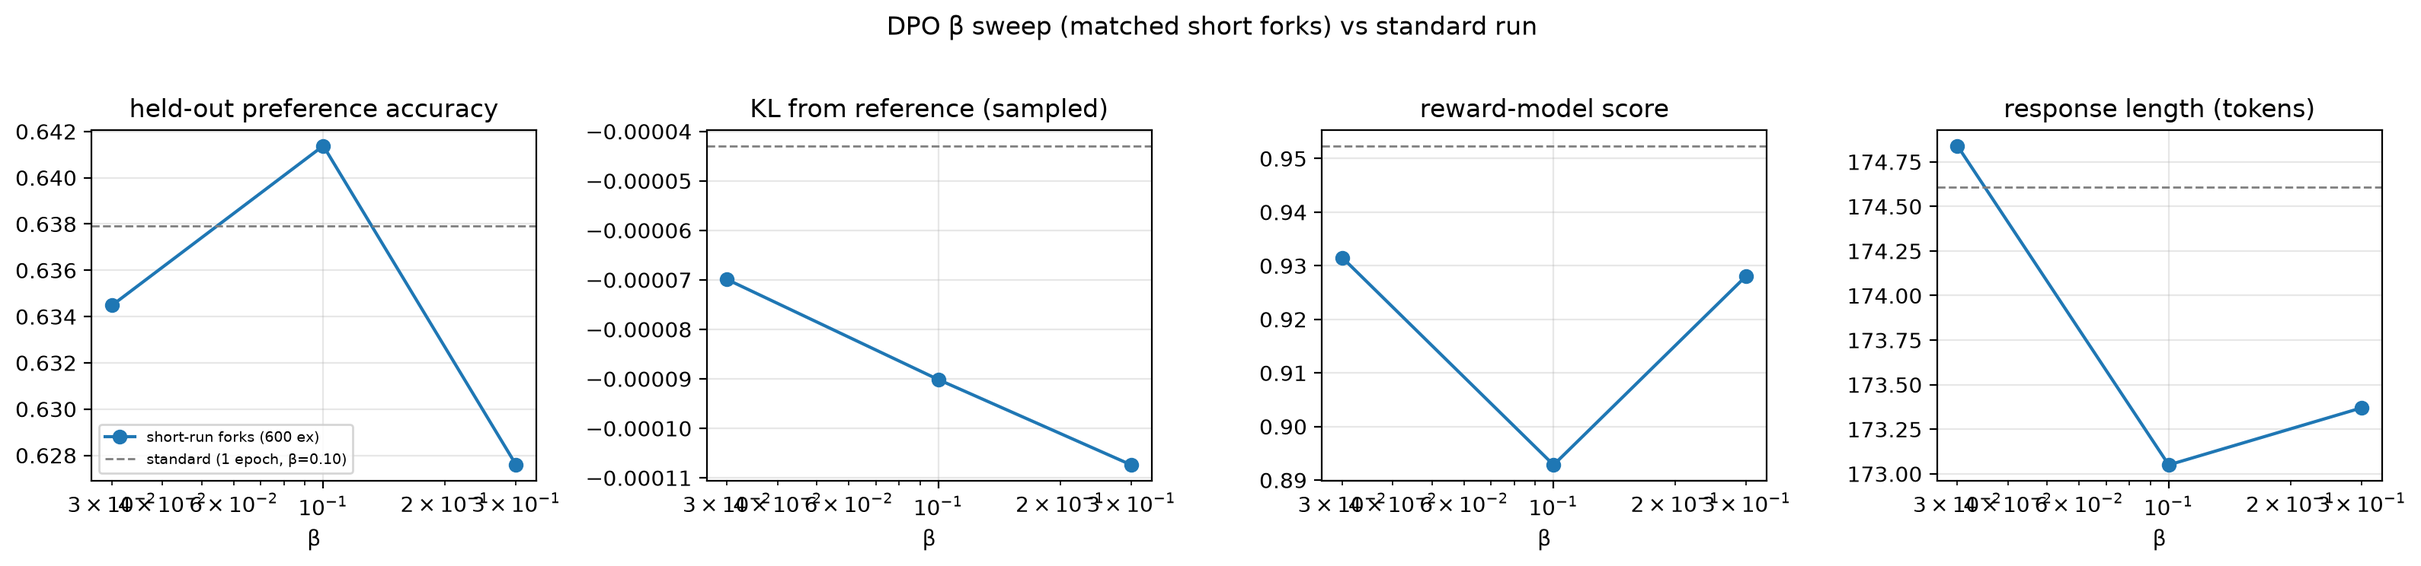
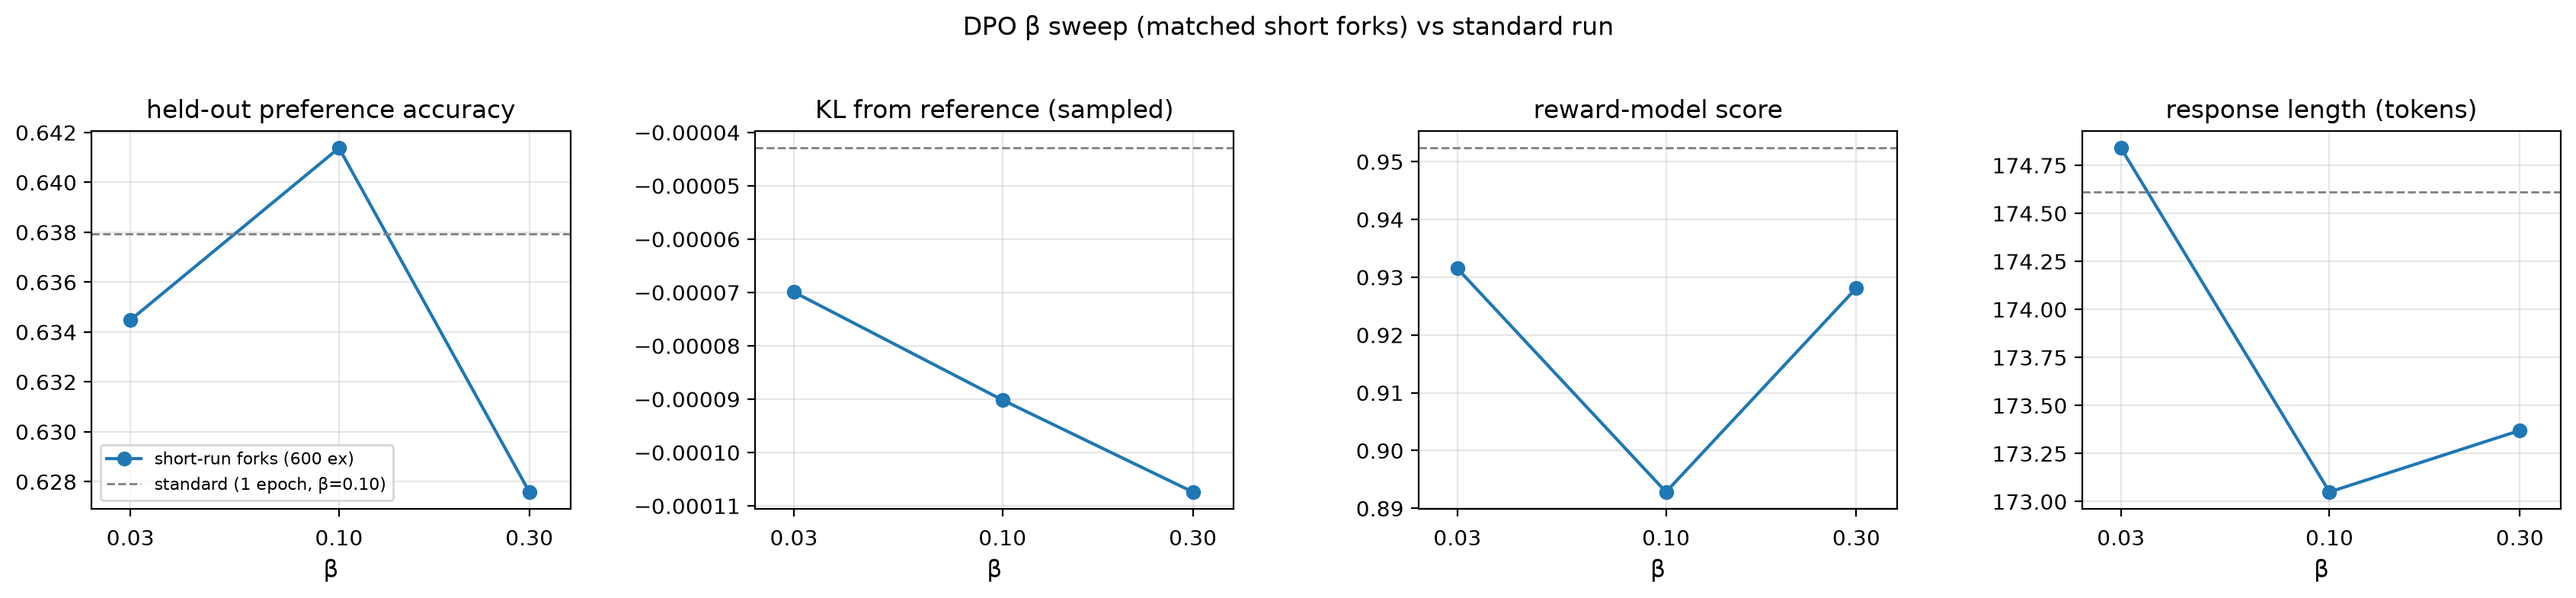
Task-1 beta_sweep figure: explicit spaced beta ticks (fix overlapping x-axis labels)

diff --git a/analysis/task1_plots.py b/analysis/task1_plots.py
@@ -166,7 +166,7 @@ def fig_beta_sweep(conditions, outbase, beta_map=None):
         return False
 
     std = condition_row("standard", conditions["standard"]) if "standard" in conditions else None
-    fig, axes = plt.subplots(1, 4, figsize=(16, 3.6))
+    fig, axes = plt.subplots(1, 4, figsize=(17, 3.8))
     panels = [
         ("held-out preference accuracy", accs, std["pref_acc"] if std else None),
         ("KL from reference (sampled)", kls, std["kl"] if std else None),
@@ -174,16 +174,22 @@ def fig_beta_sweep(conditions, outbase, beta_map=None):
         ("response length (tokens)", lens, std["len_mean"] if std else None),
     ]
     for ax, (title, ys, ref) in zip(axes, panels):
+        ax.set_xscale("log")
         ax.plot(betas, ys, "o-", label="short-run forks (600 ex)")
         if ref is not None:
             ax.axhline(ref, color="gray", ls="--", lw=1, label="standard (1 epoch, β=0.10)")
-        ax.set_xscale("log")
-        ax.set_xlabel("β")
         ax.set_title(title)
         ax.grid(alpha=0.3)
-    axes[0].legend(fontsize=7)
+        # explicit, well-spaced beta ticks: only the three tested values, no minor-label clutter
+        ax.set_xlim(0.024, 0.38)
+        ax.set_xticks(betas)
+        ax.set_xticklabels([f"{b:.2f}" for b in betas], fontsize=10)
+        ax.minorticks_off()
+        ax.tick_params(axis="x", pad=6)
+        ax.set_xlabel("β", fontsize=11)
+    axes[0].legend(fontsize=8)
     fig.suptitle("DPO β sweep (matched short forks) vs standard run", y=1.02)
-    fig.tight_layout()
+    fig.tight_layout(w_pad=3.0)
     fig.savefig(outbase.with_suffix(".png"), dpi=200, bbox_inches="tight")
     fig.savefig(outbase.with_suffix(".pdf"), bbox_inches="tight")
     plt.close(fig)

diff --git a/results/task1_dpo/summary_tables.md b/results/task1_dpo/summary_tables.md
@@ -34,3 +34,5 @@
 | beta_0p3 | 0.30 | 600 | 38 | 0.673 | 0.625 | 528.9 |
 | length_balanced | 0.10 | 1442 | 91 | 0.596 | 1.000 | 982.3 |
 | standard | 0.10 | 1446 | 91 | 0.650 | 0.667 | 1282.6 |
+| subset_length_balanced | — | None | None | — | — | — |
+| subset_standard | — | None | None | — | — | — |
